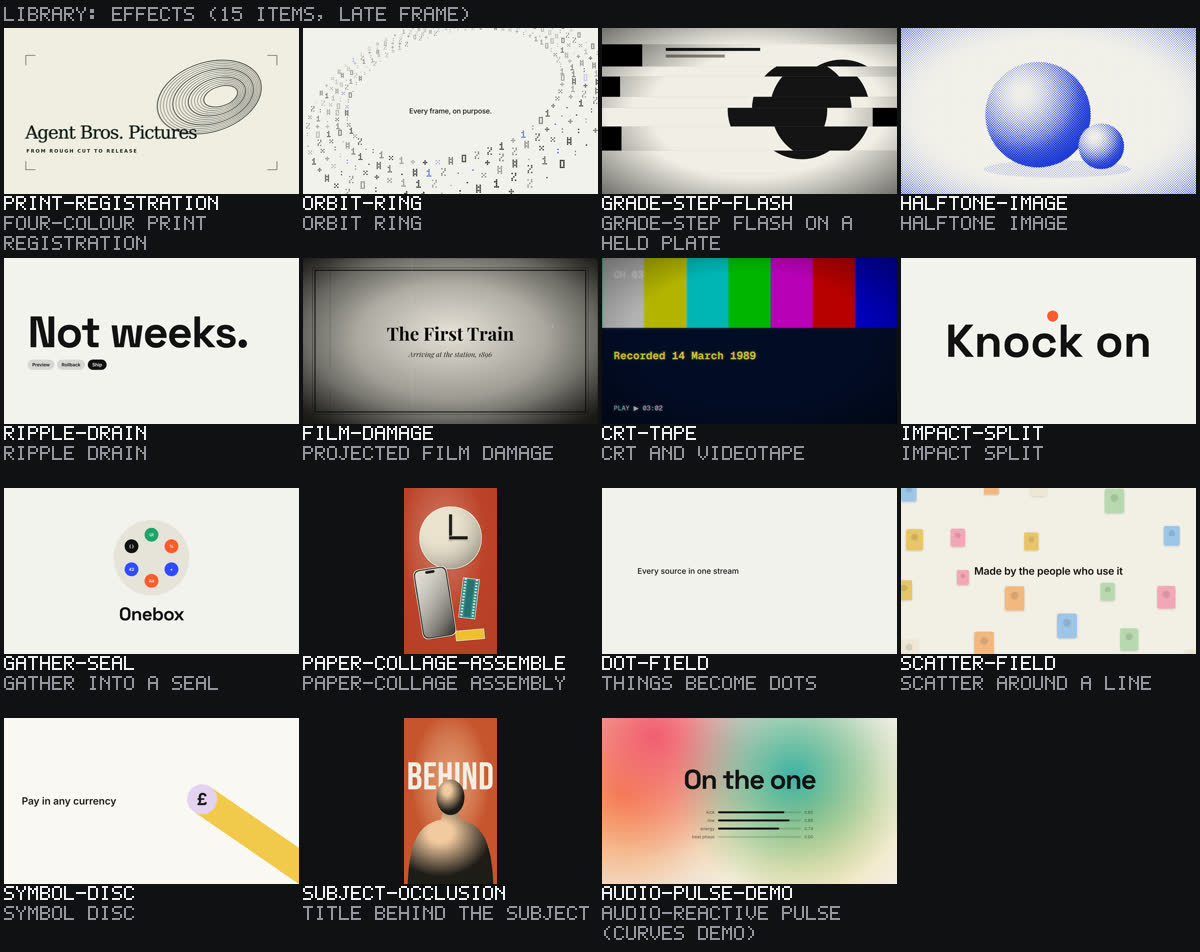
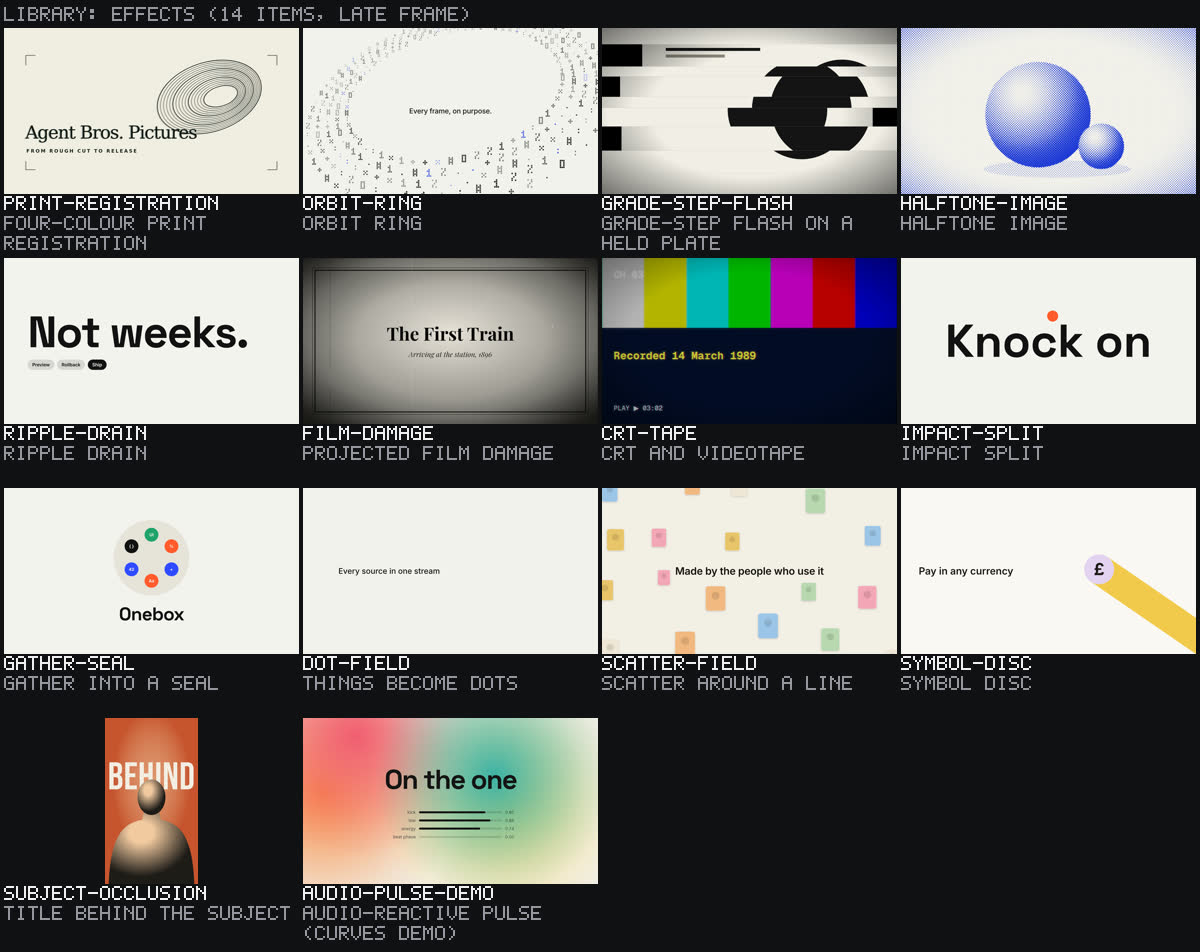
Add the unit tray sheet; keep the third-party collage cut-out out of the effects sheet

diff --git a/tests/library-previews.test.ts b/tests/library-previews.test.ts
@@ -6,12 +6,15 @@ import test from "node:test";
 import assert from "node:assert/strict";
 import { existsSync, readFileSync } from "node:fs";
 
+/** Its sample cut-out derives from a third-party mockup, so its sheet is not published (docs/assets.md, collage). */
+const UNPUBLISHED = new Set(["paper-collage-assemble"]);
+
 test("every catalogue block has its preview sheet in the repository", () => {
   const catalogue = JSON.parse(readFileSync("docs/library/catalogue.json", "utf8")) as {
     items: { id: string; preview?: { image?: string } }[];
   };
   const missing = catalogue.items
-    .filter(({ preview }) => preview?.image && !existsSync(preview.image))
+    .filter(({ id, preview }) => !UNPUBLISHED.has(id) && preview?.image && !existsSync(preview.image))
     .map(({ id }) => id);
   assert.deepEqual(missing, []);
 });
